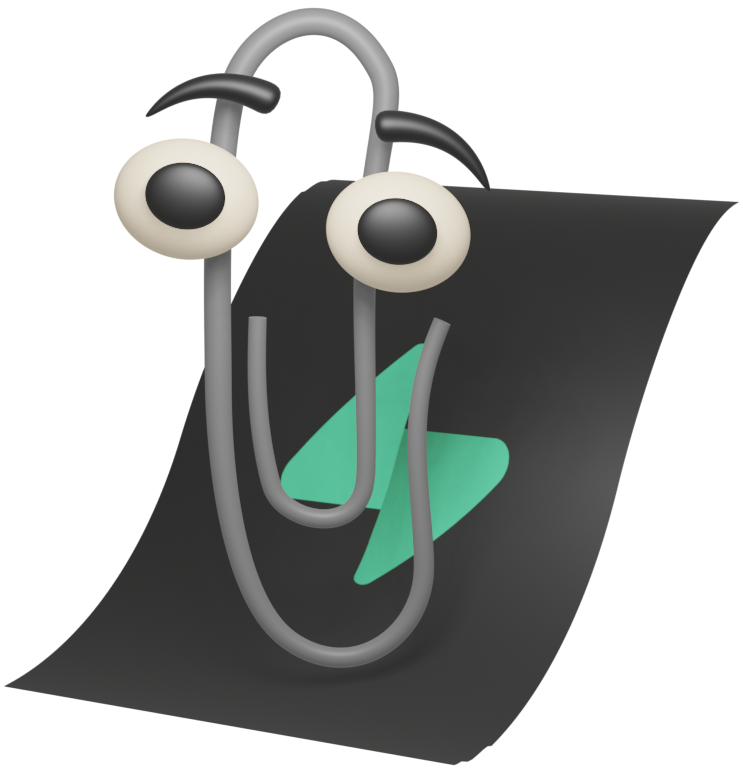
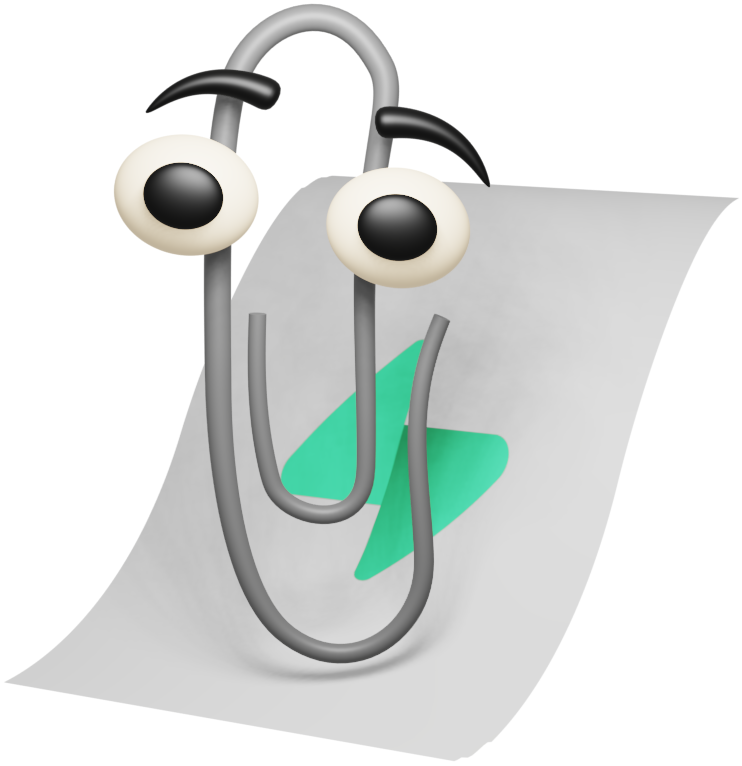
feat(docs-gpt): light-themed clippy

diff --git a/apps/docs/components/Clippy/Clippy.tsx b/apps/docs/components/Clippy/Clippy.tsx
@@ -1,11 +1,14 @@
+import { useTheme } from 'common/Providers'
 import Image from 'next/image'
 import { FC, useCallback, useEffect, useState } from 'react'
 import { createPortal } from 'react-dom'
+import clippyImageDark from '../../public/img/clippy-dark.png'
 import clippyImage from '../../public/img/clippy.png'
 import ClippyBubble from './ClippyBubble'
 import ClippyModal from './ClippyModal'
 
 const Clippy: FC = () => {
+  const { isDarkMode } = useTheme()
   const [isModalOpen, setIsModalOpen] = useState(false)
 
   const onOpen = useCallback(() => {
@@ -29,7 +32,7 @@ const Clippy: FC = () => {
         <div className="flex flex-col items-end gap-4">
           <ClippyBubble onClick={onOpen} />
           <div className="w-[150px]">
-            <Image src={clippyImage} alt="Clippy" />
+            <Image src={isDarkMode ? clippyImageDark : clippyImage} alt="Clippy" />
           </div>
         </div>
       )}
